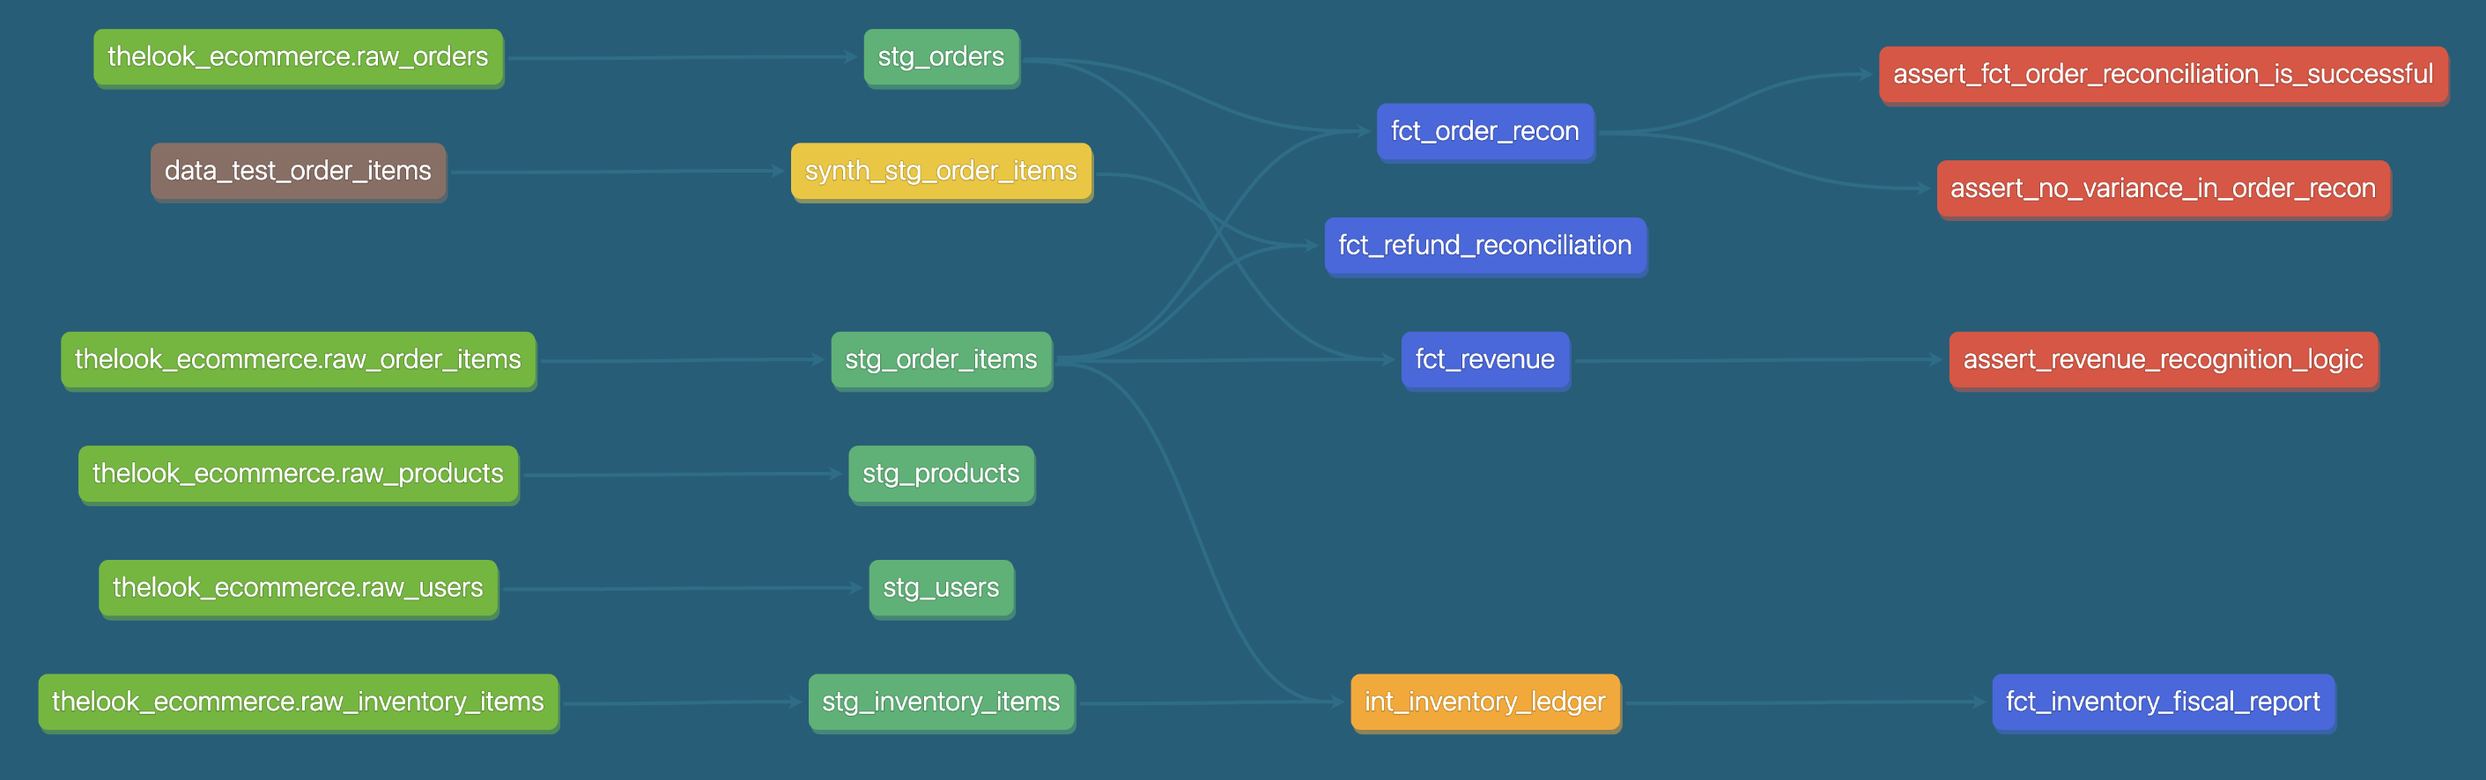
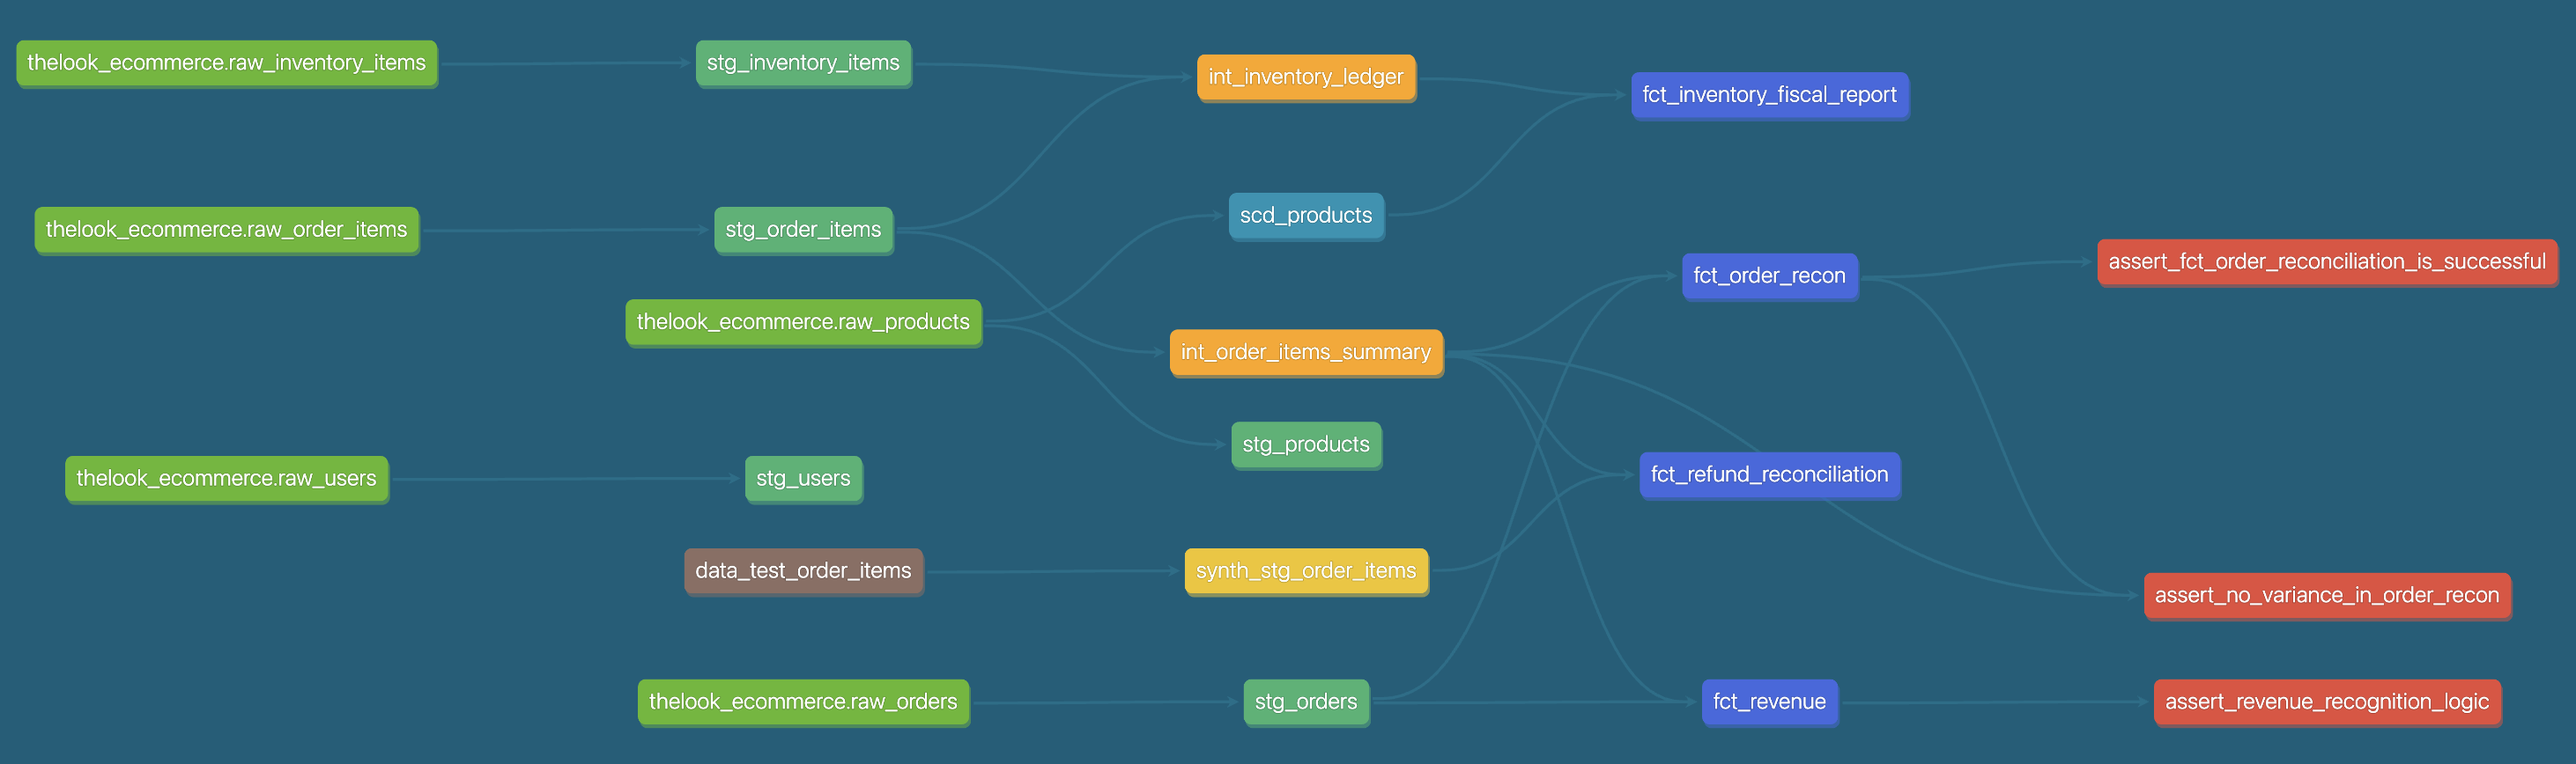
docs(readme): comprehensive README update with refreshed images

diff --git a/README.md b/README.md
@@ -5,8 +5,12 @@
 ---
 
 ## 1. Project Overview
-* **Objective**: Transforming raw transactional logs into "Audit-Ready" financial marts.
-* **Core Value**: Implementing automated "Internal Controls" within the data pipeline to bridge the gap between system logs and GAAP/IFRS standards.
+
+A portfolio project built by a **CPA (Big 4, Accounting Advisory Manager)** transitioning into Analytics Engineering. The goal was to apply financial audit expertise directly to the modern data stack — not just build a pipeline, but embed the internal controls and reconciliation logic that a real audit would require.
+
+* **Data Source**: [TheLook E-commerce](https://console.cloud.google.com/marketplace/product/bigquery-public-data/thelook-ecommerce) — a public BigQuery dataset simulating a fashion e-commerce business (~1,000 products, ~100K orders)
+* **Objective**: Transform raw transactional logs into audit-ready financial marts with automated internal controls
+* **Core Value**: Bridge the gap between system logs and GAAP/IFRS standards by embedding reconciliation logic, revenue recognition, and inventory valuation directly into the transformation layer
 
 ---
 
@@ -16,8 +20,8 @@ I adopted a hybrid architecture to balance development efficiency with productio
 ### 1. Ingestion & Synthetic Data Generation
 * **Python Extraction** (📂 `scripts/ingest_data.py`): Extracts BigQuery raw data into local **Parquet** files via API.
 * **Synthetic Engineering** (📂 `scripts/create_sample_order_items.py`): Generates **"Partial Refund"** scenarios to validate edge-case reconciliation logic.
-* **Local Data Lake**: 
-    - 📂 `data/raw_orders.parquet`, `raw_order_items.parquet`, `raw_products.parquet`, `raw_users.parquet`, `raw_inventory_items.parquet`
+* **Local Data Lake** (not tracked in git — regenerate via `scripts/ingest_data.py`):
+    - `data/raw_orders.parquet`, `raw_order_items.parquet`, `raw_products.parquet`, `raw_users.parquet`, `raw_inventory_items.parquet`
     - 📂 `seeds/data_test_order_items.csv` (**Synthetic Seed** for logic verification)
 
 ### 2. High-Performance Local Development
@@ -52,6 +56,9 @@ I adopted a hybrid architecture to balance development efficiency with productio
     - 📂 `models/marts/fct_order_recon.sql`: Master-to-Subledger reconciliation.
     - 📂 `models/marts/fct_revenue.sql`: Accrual-based revenue recognition.
     - 📂 `models/marts/fct_refund_reconciliation.sql`: Linking refunds to original orders.
+    - 📂 `models/marts/fct_inventory_fiscal_report.sql`: Annual inventory valuation — COGS, LCM write-down, audit check, and turnover ratios by product and fiscal year.
+
+> **Incremental Strategy**: `int_order_items_summary`, `fct_revenue`, `fct_order_recon`, and `fct_refund_reconciliation` are materialized as **incremental models** (`merge` strategy) with a 7-day lookback window to capture late-arriving refunds. `fct_inventory_fiscal_report` is a full-refresh model — cross-year LAG calculations require a complete recalculation each run.
 
 #### Jinja Macros
 Repeated SQL expressions are extracted into reusable macros to enforce DRY principles and make business logic easier to maintain.
@@ -69,13 +76,22 @@ LEFT JOIN {{ ref('scd_products') }} scd
     AND (scd.dbt_valid_to IS NULL OR {{ fiscal_year_end('y.fiscal_year') }} < scd.dbt_valid_to)
 ```
 
-### 4. SCD Type 2 Snapshot (Product Price Tracking)
+### 4. Orchestration (Apache Airflow + Docker)
+* **File**: 📂 `dags/dbt_incremental_pipeline.py`
+* **Schedule**: Daily at 09:00 UTC, containerized via `docker-compose.yml`
+* **Pipeline**:
+    1. `generate_incremental_data` — Appends ~100 synthetic orders to parquet sources
+    2. `dbt_run_intermediate` — Incremental merge into `int_order_items_summary`
+    3. `dbt_run_marts` — Incremental merge into `fct_revenue`, `fct_order_recon`, `fct_refund_reconciliation`
+    4. `dbt_test_incremental` — Runs all tests on updated models to validate pipeline output
+
+### 5. SCD Type 2 Snapshot (Product Price Tracking)
 * **File**: 📂 `snapshots/scd_products.sql`
 * **Strategy**: `check` — tracks row-level changes on `cost`, `retail_price`, `product_name`, `category` using `dbt snapshot`.
 * **Purpose**: Maintains a full historical record of product price and category changes, enabling point-in-time inventory valuation and audit traceability without overwriting prior states.
 * **Hard Delete Handling**: `invalidate_hard_deletes=True` ensures removed products are flagged rather than silently dropped from history.
 
-### 5. Quality Control
+### 6. Quality Control
 * **Automated Reconciliation**: Custom dbt tests to flag financial discrepancies.
 ![dbt Test Results](./images/test_results.png)
     * **Model Schema Tests** (column-level constraints & descriptions):
@@ -92,7 +108,7 @@ LEFT JOIN {{ ref('scd_products') }} scd
 ---
 
 ## 3. Tech Stack & Engineering Value
-* **Stack**: SQL, Python, dbt-core, DuckDB, BigQuery, Parquet.
+* **Stack**: SQL, Python, dbt-core, DuckDB, BigQuery, Apache Airflow, Docker, Parquet.
 * **Auditability**: End-to-end metadata for clear financial audit trails.
 * **Cost-Efficiency**: Reduced warehouse compute costs by **90%** during development.
 * **Idempotency**: Consistent financial results regardless of re-run frequency.
@@ -100,7 +116,7 @@ LEFT JOIN {{ ref('scd_products') }} scd
 ---
 
 ## 4. Financial Modeling & Accounting Logic
-This project moves beyond simple ETL by embedding **Accounting Principles** into the data transformation layer to ensure audit_ready data reliability
+This project moves beyond simple ETL by embedding **Accounting Principles** into the data transformation layer to ensure audit-ready data reliability.
 
 ### 1. Financial Data Reconciliation (Master-to-Subledger)
 * **File**: 📂 `models/marts/fct_order_recon.sql`
@@ -115,7 +131,7 @@ This project moves beyond simple ETL by embedding **Accounting Principles** into
 * **File**: 📂 `models/marts/fct_revenue.sql`
 * **Objective**: Implemented **Accrual Basis** accounting standards by designating `shipped_at` (fulfillment) as the primary trigger for revenue realization, ensuring compliance with **GAAP/IFRS** principles.
 * **Complex Order State Management**: 
-    - Utilized 'STRING_AGG(DISTINCT status)' to synchronize and monitor multiple item statuses within a single `order_id`.
+    - Utilized `STRING_AGG(DISTINCT status)` to synchronize and monitor multiple item statuses within a single `order_id`.
     - Applied **COALESCE logic** to prevent data loss across the Full-Join between Master and Sub-ledger, maintaining a Single Source of Truth (SSOT).
 * **Temporal Analysis & Cut-off Control**:
     - Engineered logic to analyze the time-lag between **Order Creation (`created_at`)** and **Fulfillment (`shipped_at`)**.
@@ -131,7 +147,7 @@ This project moves beyond simple ETL by embedding **Accounting Principles** into
 
     - **Solution**: To validate the robustness of the reconciliation logic, I implemented a **Unit Testing** environment using **dbt Seeds**.
 
-        1. **Automated Synthetic Data Generation (via Python)**: Developed a Python script (📂 `scripts/create_sample_order_items.py`) to programmatically generate synthetic transactional data. This script was specfically engineered to simulate "multi-item orders with mix statuses" (e.g. one item completed, another returned within same `order_id`), which were missing in the original production dataset. 
+        1. **Automated Synthetic Data Generation (via Python)**: Developed a Python script (📂 `scripts/create_sample_order_items.py`) to programmatically generate synthetic transactional data. This script was specifically engineered to simulate "multi-item orders with mix statuses" (e.g. one item completed, another returned within same `order_id`), which were missing in the original production dataset. 
             - Result file: 📂 `seeds/data_test_order_items.csv`
 
         2. **Isolated Test Environment**: Constructed a separate test model to validate the aggregation logic in isolation, ensuring that the integrity of the core production data remained uncompromised. 
@@ -144,8 +160,8 @@ This project moves beyond simple ETL by embedding **Accounting Principles** into
 
     - **Engineering Value: Future Proof Modeling**: Although the current source data lacks partial refund variety, I designed this logic to be **future-proof**. By simulating these scenarios, I’ve ensured the model is ready for complex, real-world transactional environments—moving beyond simple data transformation to **proactive business logic modeling**.
 
-### 4. Financial Inventory Control & Valuation (FIFO)
-* **Methodology (FIFO & Cut-off)**: Implemented a robust **First-In, First-Out (FIFO)** valuation model using SQL Window Functions to track specific `inventory_item_id` lifecycles, ensuring a granular audit trail from inbound to outbound.
+### 4. Financial Inventory Control & Valuation (Specific Identification)
+* **Methodology (Specific Identification & Cut-off)**: Implemented item-level cost tracking by following each `inventory_item_id` from inbound receipt to outbound sale — a **Specific Identification** approach that provides a granular audit trail and precise COGS calculation without the pooling assumptions of FIFO/LIFO.
 * **Annual Reconciliation (Audit-Ready)**: Developed a fiscal-year snapshot engine that reconciles **Beginning Inventory + Purchases - Ending Inventory = COGS**. 
 * **Lower of Cost or Market (LCM)**: Engineered automated valuation logic that compares `historical_unit_cost` against the **period-end market price** sourced from the `scd_products` Type 2 snapshot (effective as of December 31st of each fiscal year). This ensures the LCM write-down reflects actual year-end market conditions — not the price frozen at inbound receipt — calculating the correct "Allowance for Inventory Valuation" for Balance Sheet reporting.
 * **Inventory Aging & Velocity**: Developed an aging engine that buckets inventory into 1/2/3/4-year categories. Combined this with **Inventory Turnover Ratios** at the product level to identify high-risk, slow-moving assets.
@@ -160,8 +176,13 @@ This project moves beyond simple ETL by embedding **Accounting Principles** into
 ![Financial Columns](./images/model_columns.png)
 * **Accounting Logic Implementation**: Includes granular fields for NRV, LCM, and a dedicated `audit_check_diff` for automated reconciliation.
 
-![Data Controls](./images/model_tests.png)
-* **Automated Internal Controls**: Integrated dbt tests to enforce zero-variance (`audit_check_diff == 0`) and validate inventory health ratings.
+![Data Tests](./images/model_data_tests.png)
+* **Automated Internal Controls**: Integrated dbt tests to enforce zero-variance (`audit_check_diff == 0`), composite PK uniqueness `(fiscal_year, product_id)`, and valid inventory health ratings.
+
+![Depends On Models](./images/model_depends_models.png)
+![Depends On Snapshots](./images/model_depends_snapshot.png)
+![Depends On Macros](./images/model_depends_macro.png)
+* **Dependency Graph**: `fct_inventory_fiscal_report` depends on `int_inventory_ledger` (model), `scd_products` (snapshot), and `fiscal_year_end` (macro) — dbt's model, snapshot, and macro features all wired together in a single financial reporting model.
 
 ---
 
@@ -199,22 +220,27 @@ source venv/bin/activate
 pip install dbt-duckdb dbt-bigquery google-cloud-bigquery pandas pyarrow
 ```
 
-3. Ingest Data from BigQuery
+3. **Set up BigQuery credentials**
+    - Create a [Google Cloud service account](https://console.cloud.google.com/iam-admin/serviceaccounts) with **BigQuery Data Viewer** and **BigQuery Job User** roles
+    - Download the JSON key and save it to `credentials/google_creds.json` (excluded from git)
+
+4. **Ingest data from BigQuery**
 ```bash
-# This script fetches raw data via Google API and saves it to the /data folder
+# Fetches raw data via Google API and saves Parquet files to /data (not tracked in git)
 python scripts/ingest_data.py
 ```
 
-4. Create synthetic data
+5. **Create synthetic test data**
 ```bash
-# This script generates synthetic data for partial refund scenarios for order items 
+# Generates partial refund scenarios for seed-based testing
 python scripts/create_sample_order_items.py
 ```
 
-5. Run dbt Pipeline (Seed → Snapshot → Run → Test)
+6. **Run dbt Pipeline**
 ```bash
-dbt seed
-dbt snapshot
-dbt run
-dbt test
+dbt deps      # install dbt packages (dbt_utils)
+dbt seed      # load synthetic test data
+dbt snapshot  # build scd_products price history
+dbt run       # execute all models
+dbt test      # validate all tests
 ```
